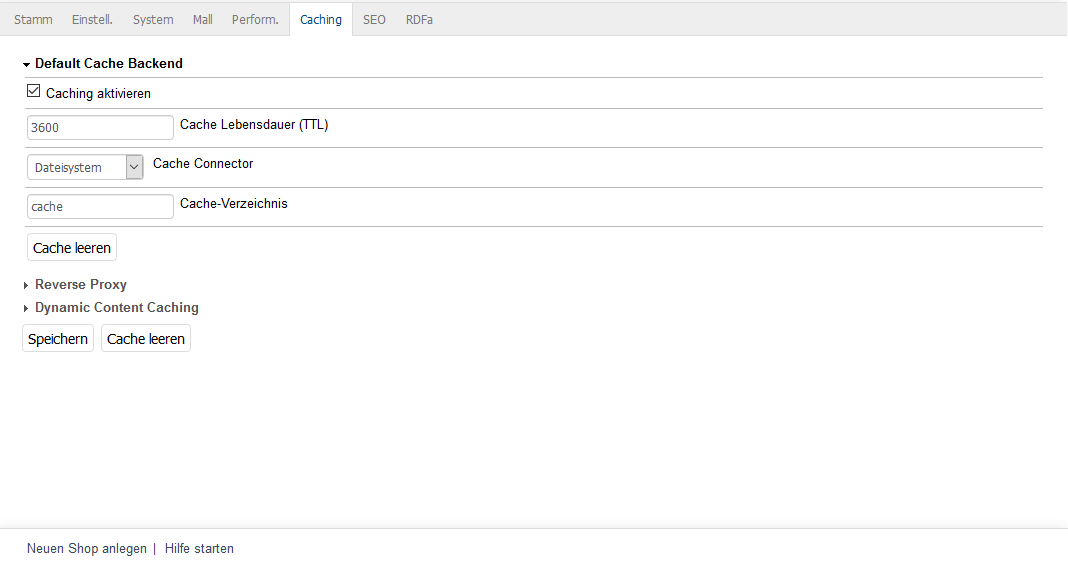
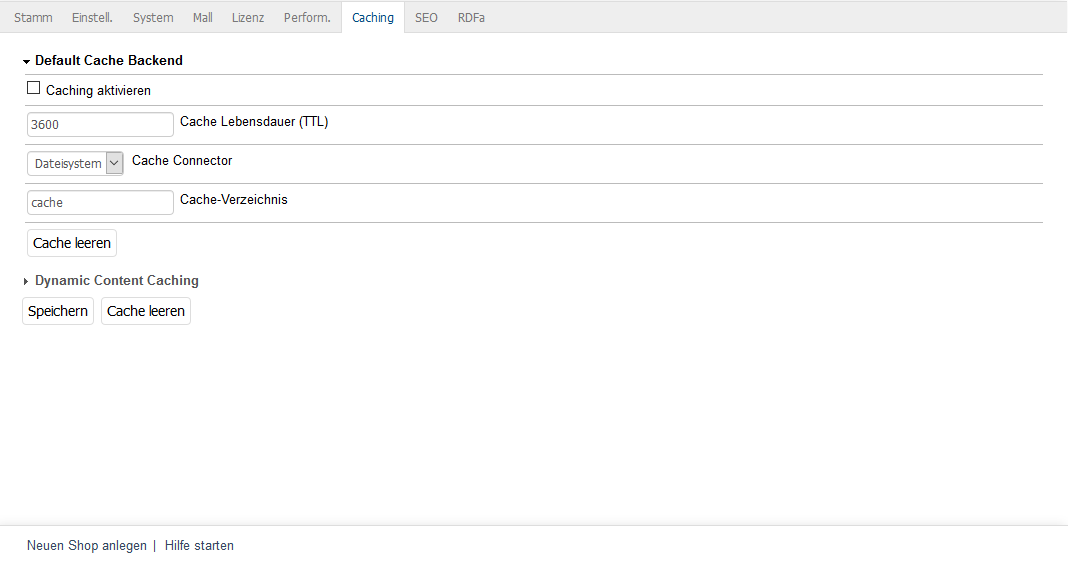
Updated Caching-Einstellungen inclusive screenshots

diff --git a/konfiguration/caching/caching-einstellungen.rst b/konfiguration/caching/caching-einstellungen.rst
@@ -5,7 +5,7 @@ Im Administrationsbereich des OXID eShop lassen sich alle Einstellungen für das
 
 .. image:: ../../media/screenshots/oxbacd01.png
    :alt: Registerkarte Caching
-   :height: 319
+   :height: 343
    :width: 650
 
 Default Cache Backend
@@ -32,6 +32,11 @@ Der Default Cache kann auch komplett gelöscht werden.
 Dynamic Content Caching
 -----------------------
 In diesem Abschnitt finden Sie die Einstellungen zum Dynamic Content Caching, welches bisher die einzige Art des Cachings in der Enterprise Edition war. Eine Tabelle gibt eine Übersicht über die vom Cache angeforderten Daten, beispielsweise über Cache Hits für Daten, die sich im Cache befinden oder Cache Miss für Daten, die im Cache nicht mehr vorhanden sind.
+
+.. image:: ../../media/screenshots/oxbacd02.png
+   :alt: Registerkarte Caching
+   :height: 343
+   :width: 650
 
 Bitte verwenden Sie Dynamic Content Caching nicht zusammen mit einem Reverse Proxy, da beide Methoden im Wesentlichen Seiten und dynamische Inhalte zwischenspeichern. Das könnte die Performance negativ beeinflussen.
 
